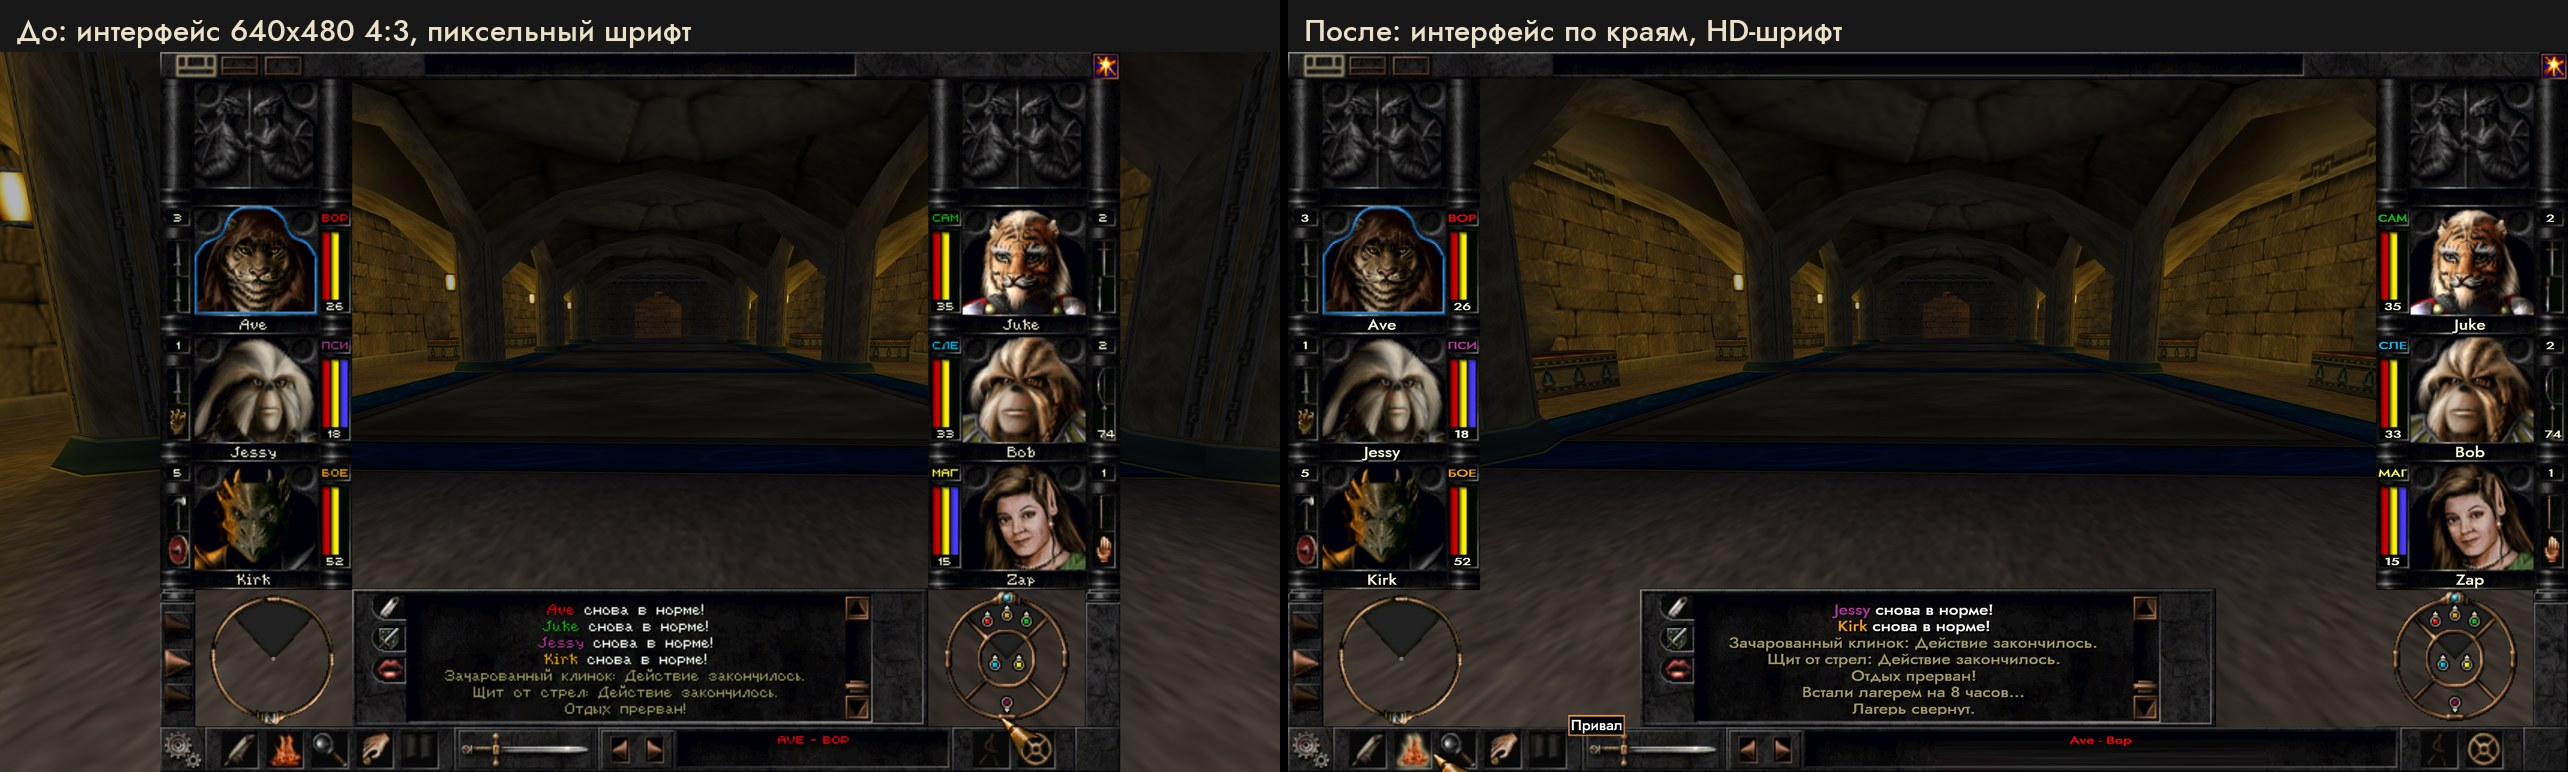
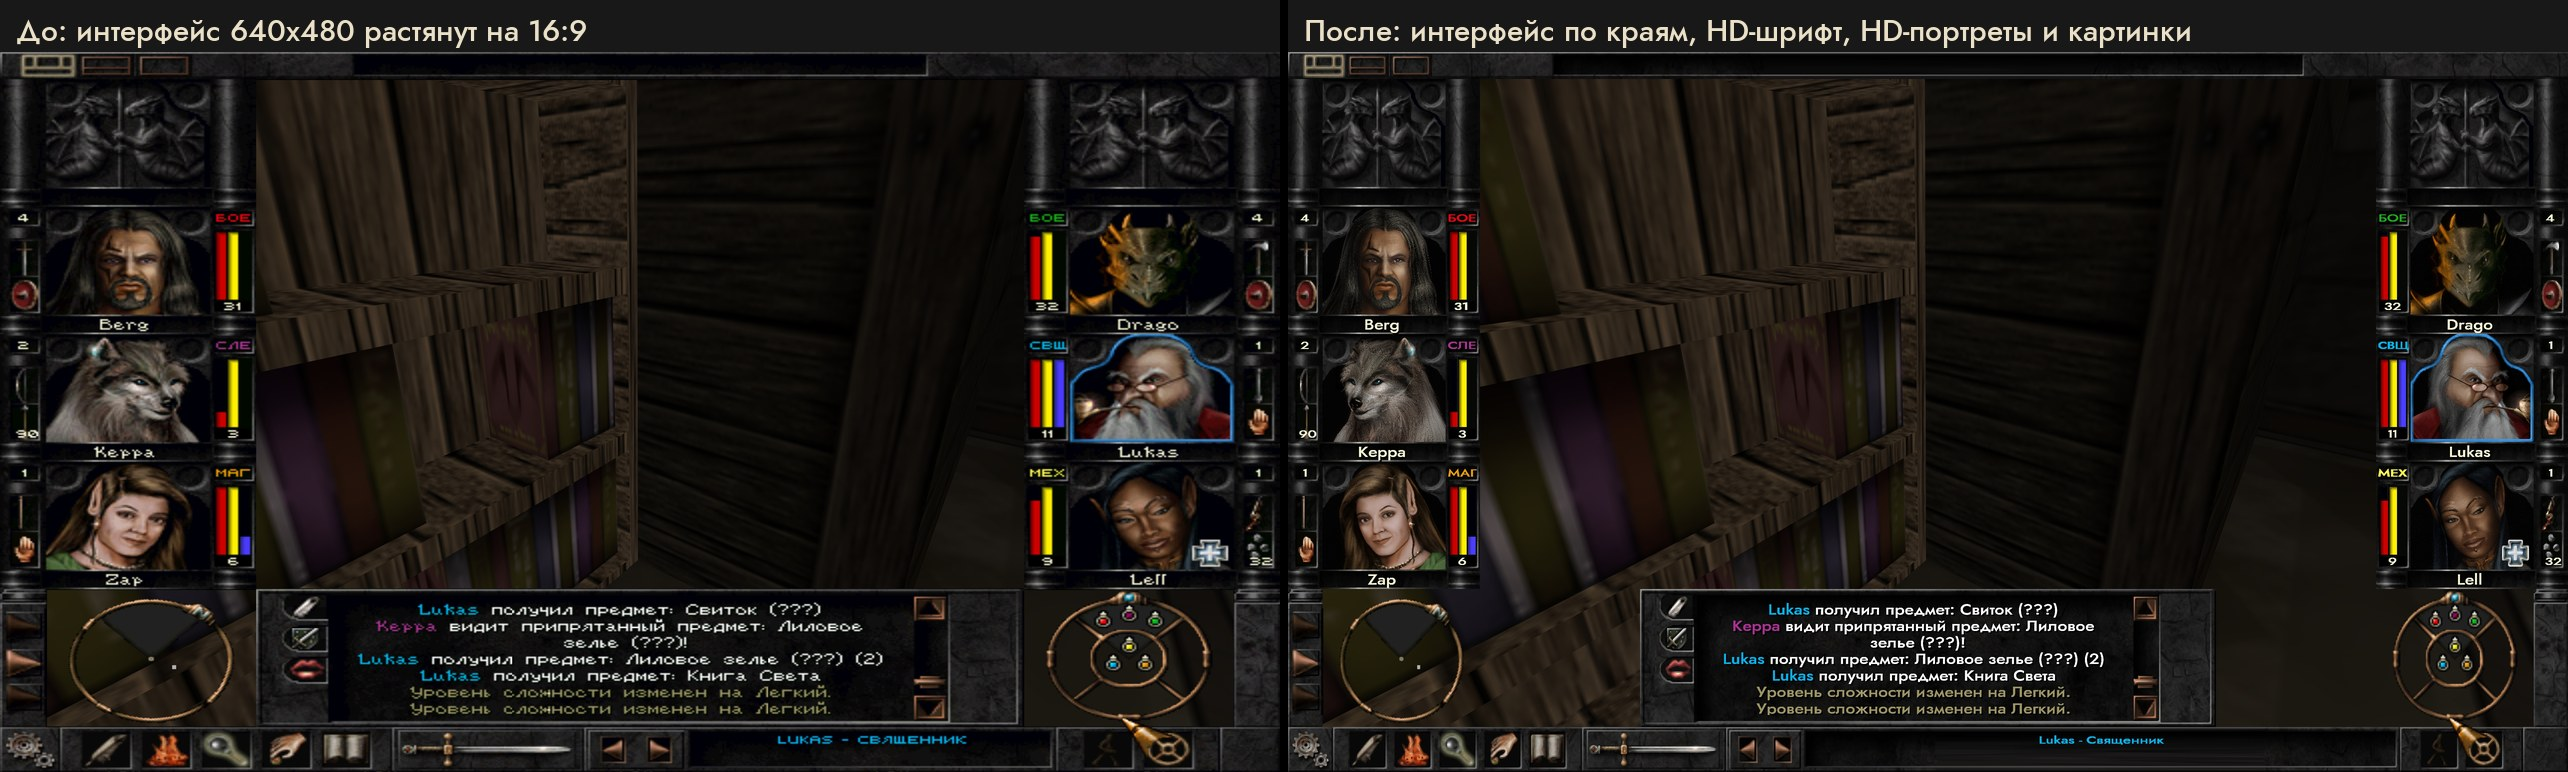
README: more before/after examples, HD interface pictures
- docs/: inventory, skills, spell panel, automap, camp and combat pairs
  (the game at 4K without the mod against the same scene with it) and
  close-ups of items and portraits at 4K pixels 1:1, Russian and English;
  the game pair now shows HD portraits and interface pictures.
- make_compare.py builds them; labels shrink to fit narrow close-ups.
- README.md / README.en.md: the examples, the interface row in the tables,
  -NoInterface, disk space (~450 MB), where the interface pictures come from.

diff --git a/tools/make_compare.py b/tools/make_compare.py
@@ -17,7 +17,11 @@ def labelled(img, text, size):
     img = img.resize(size, Image.LANCZOS)
     out = Image.new("RGB", (size[0], size[1] + BAR), (24, 24, 24))
     out.paste(img, (0, BAR))
-    ImageDraw.Draw(out).text((16, 8), text, font=FONT, fill=(235, 225, 200))
+    font, pt = FONT, 30
+    while pt > 16 and font.getlength(text) > size[0] - 32:     # a narrow close-up: a smaller label
+        pt -= 2
+        font = ImageFont.truetype(FONT.path, pt)
+    ImageDraw.Draw(out).text((16, 8 + (30 - pt) // 2), text, font=font, fill=(235, 225, 200))
     return out
 
 
@@ -35,20 +39,73 @@ def pair(before, after, name, size, vertical=False):
     print(name, out.size)
 
 
+def ui_box(mode, x0, y0, x1, y1):
+    """A rectangle of the 640x480 interface on a 3840x2160 shot: 'stretch' = the game without the mod (the
+    interface stretched over 16:9), 'center' = a full-screen 4:3 screen with the mod, 'left' = the HUD's left
+    column with the mod (moved to the screen edge)."""
+    k = 4.5
+    if mode == "stretch":
+        return (round(x0 * 6), round(y0 * k), round(x1 * 6), round(y1 * k))
+    dx = 480 if mode == "center" else 0
+    return (round(dx + x0 * k), round(y0 * k), round(dx + x1 * k), round(y1 * k))
+
+
+def crop_pair(before, after, rect, before_mode, after_mode, name, labels, height):
+    """The same interface rectangle without and with the mod, side by side at the same height (4K pixels for
+    the mod's side, the stretched picture squeezed back to 4:3 for the other)."""
+    b = shot(before).crop(ui_box(before_mode, *rect))
+    a = shot(after).crop(ui_box(after_mode, *rect))
+    w = round(a.width * height / a.height)
+    pair((b, labels[0]), (a, labels[1]), name, (w, height))
+
+
 LABELS = {
     "": ("До: меню 640x480, растянуто на 16:9", "После: широкий HD-фон 3840x2160",
-         "До: интерфейс 640x480 4:3, пиксельный шрифт", "После: интерфейс по краям, HD-шрифт",
+         "До: интерфейс 640x480 растянут на 16:9", "После: интерфейс по краям, HD-шрифт, HD-портреты и картинки",
          "До: шрифт игры 640x480, увеличенный до 4K", "После: TrueType-шрифт Jost в родном 4K"),
     "_en": ("Before: 640x480 menu stretched to 16:9", "After: wide HD background, 3840x2160",
-            "Before: 640x480 4:3 interface, pixel font", "After: interface at the edges, HD font",
+            "Before: 640x480 interface stretched to 16:9", "After: HUD at the edges, HD font, portraits, pictures",
             "Before: the game's 640x480 font scaled to 4K", "After: Jost TrueType font at native 4K"),
 }
+# more screens: ex_off_* = the game without the mod, ex_on_* = with it (wizardry8-hdui tools/shoot_examples.sh)
+SCREENS = {
+    "": {
+        "inventory": ("До: инвентарь растянут на 16:9", "После: 4:3 по центру, камень по бокам, всё в HD"),
+        "skills": ("До: лист персонажа, пиксельный шрифт", "После: навыки, HD-шрифт и HD-рамки"),
+        "spells": ("До: панель заклинаний", "После: панель заклинаний в HD, HUD по краям"),
+        "map": ("До: карта растянута", "После: карта 4:3, HD-кнопки"),
+        "rest": ("До: привал", "После: HD-фон привала, спящие HD-портреты"),
+        "battle": ("До: бой с крабами", "После: тот же бой"),
+        "items": ("До: предметы 640x480, увеличены до 4K", "После: предметы в HD (xBR), пиксели 4K 1:1"),
+        "portraits": ("До: колонка портретов", "После: HD-портреты, рамки и полоски"),
+    },
+    "_en": {
+        "inventory": ("Before: inventory stretched to 16:9", "After: 4:3 in the middle, stone beside, all HD"),
+        "skills": ("Before: character sheet, pixel font", "After: skills with HD font and frames"),
+        "spells": ("Before: spell panel", "After: HD spell panel, HUD at the edges"),
+        "map": ("Before: automap stretched", "After: 4:3 automap, HD buttons"),
+        "rest": ("Before: camp", "After: HD camp picture, sleeping HD portraits"),
+        "battle": ("Before: a fight with crabs", "After: the same fight"),
+        "items": ("Before: items, 640x480 scaled to 4K", "After: HD items (xBR), 4K pixels 1:1"),
+        "portraits": ("Before: the portrait column", "After: HD portraits, frames and bars"),
+    },
+}
+SHOT = {"inventory": "inv", "skills": "skills", "spells": "spells", "map": "map", "rest": "rest", "battle": "battle"}
 box = (1300, 1560, 2600, 2160)
 for sfx, t in LABELS.items():
     # menu: without the mod the game's own 640x480 frame is stretched over the 16:9 screen
     pair((shot("menu2d_2d.png"), t[0]), (shot("fin_menu.jpg"), t[1]), f"compare_menu{sfx}.jpg", (1280, 720))
     # world: same place, same party
-    pair((shot("hud.png"), t[2]), (shot("fin_after.jpg"), t[3]), f"compare_game{sfx}.jpg", (1280, 720))
+    pair((shot("ex_off_hud.jpg"), t[2]), (shot("ex_on_hud.jpg"), t[3]), f"compare_game{sfx}.jpg", (1280, 720))
     # text close-up at native 4K pixels
     pair((shot("hud.png").crop(box), t[4]), (shot("fin_after.jpg").crop(box), t[5]), f"compare_text{sfx}.jpg",
          (1300, 600), vertical=True)
+    s = SCREENS[sfx]
+    for key, name in SHOT.items():
+        pair((shot(f"ex_off_{name}.jpg"), s[key][0]), (shot(f"ex_on_{name}.jpg"), s[key][1]),
+             f"compare_{key}{sfx}.jpg", (960, 540))
+    # close-ups: the party's items in the inventory, the left portrait column in the HUD
+    crop_pair("ex_off_inv.jpg", "ex_on_inv.jpg", (478, 168, 614, 320), "stretch", "center", f"compare_items{sfx}.jpg",
+              s["items"], 640)
+    crop_pair("ex_off_hud.jpg", "ex_on_hud.jpg", (0, 100, 128, 358), "stretch", "left", f"compare_portraits{sfx}.jpg",
+              s["portraits"], 900)

diff --git a/README.en.md b/README.en.md
@@ -13,6 +13,28 @@ text, an undistorted interface and wide HD backgrounds. One script installs ever
 
 ![Text close-up, 4K pixels 1:1](docs/compare_text_en.jpg)
 
+### More examples
+
+Left: the game at 4K without the mod; right: with the mod. Same place, same party.
+
+![Inventory: before and after](docs/compare_inventory_en.jpg)
+
+![Character sheet, skills: before and after](docs/compare_skills_en.jpg)
+
+![Spell panel: before and after](docs/compare_spells_en.jpg)
+
+![Automap: before and after](docs/compare_map_en.jpg)
+
+![Camp: before and after](docs/compare_rest_en.jpg)
+
+![Combat: before and after](docs/compare_battle_en.jpg)
+
+Close-ups, 4K pixels 1:1:
+
+![Inventory items close-up](docs/compare_items_en.jpg)
+
+![Portrait column close-up](docs/compare_portraits_en.jpg)
+
 | | Steam version as is | After installing |
 |---|---|---|
 | Resolution | 800x600, 16-bit (Glide through nGlide) | your monitor's native resolution, 32-bit (DirectX through dgVoodoo2) |
@@ -22,6 +44,7 @@ text, an undistorted interface and wide HD backgrounds. One script installs ever
 | Text | 640x480 pixel font, blurry | TrueType font at native resolution, tooltips included |
 | Menu, loading and camp backgrounds | 640x480, stretched | wide 16:9 HD backgrounds |
 | Character portraits | 640x480, blurry | HD in all three sizes, with blinking and talking |
+| Frames, buttons, icons, items, spells, automap | 640x480, blurry | HD pictures (classic xBR pixel-art scaler, no AI) |
 | Inventory, party, character creation | black bars at the sides | the game's own stone at the sides |
 | Location texts (diaries, signs) in the Russian version | in English | in Russian (Fan Patch texts) |
 | 3dfx logo at startup | yes | no |
@@ -36,7 +59,7 @@ screenshots were taken with the Russian game language; the mod works with any la
 - Wizardry 8 from Steam.
 - **Fan Patch 1.28**, an unofficial community patch. Steam does not include it; download it separately (step 2).
 - **dgVoodoo2**. Steam does not include it either; the installer downloads it for you (step 4).
-- An internet connection during installation and about 80 MB of disk space.
+- An internet connection during installation and about 450 MB of disk space.
 
 ## Installation
 
@@ -90,7 +113,8 @@ From PowerShell: `powershell -ExecutionPolicy Bypass -File .\install.ps1 [option
 | `-DetectOnly` | only find the game and check versions and resolution |
 | `-WhatIf` | show what would be done without changing anything |
 | `-NoBackgrounds` | no HD backgrounds (−71 MB) |
-| `-NoPortraits` | no HD portraits (−119 MB) |
+| `-NoPortraits` | no HD portraits (−116 MB) |
+| `-NoInterface` | no HD interface pictures: frames, buttons, icons, items (−258 MB) |
 | `-NoRusTexts` | keep the location texts in English in a Russian game |
 | `-NoHdUi` | only the resolution and borderless screen, no HD interface |
 | `-ResetConfig` | replace an existing `wiz8hd.ini` / `dgVoodoo.conf` with the defaults |
@@ -110,6 +134,7 @@ with `-ResetConfig`.
 | Wide HD backgrounds | `wiz8hd_bg\` (42 pictures 3840x2160 + 640x480 references for recognizing the screen) |
 | Stone beside full-screen screens | `wiz8hd_bg\_sides.png` |
 | HD portraits (982 frames: small, medium, large, blinking and talking) | `wiz8hd_ui\sti\PORTRAITS\` |
+| HD interface pictures (4765 frames: frames, buttons, icons, items, spells, automap, character creation) | the other folders of `wiz8hd_ui\sti\` |
 | Russian location texts (only with `Data\RUS.SLF`): diaries, signs, bookshelves | `Data\Messages\*.MSG`, built from the Fan Patch's Russian texts in `Data\FanPatch.Dat` |
 | No 3dfx logo | registry `HKCU\Software\Zeus Software\nGlide2`, `Splash=0` |
 | Shortcut | "Wizardry 8 (Fan Patch 4K)" on the desktop → `Wiz8_v128.exe` |
@@ -163,7 +188,8 @@ To remove the mod by hand, delete these files (or run `uninstall.cmd`); the game
   menu, world, byte-for-byte uninstall.
 - `tools\Update-Payload.ps1` refreshes `payload\` after rebuilding the mod (`wizardry8-hdui`: `./build.sh`,
   `build\wiz8hd.asi` → `dist\`). Pictures and fonts are stored in Git LFS.
-- `tools\make_compare.py <wizardry8-hdui>\shots` builds the before/after pictures in `docs\` (Russian and English).
+- `tools\make_compare.py <wizardry8-hdui>\shots` builds the before/after pictures in `docs\` (Russian and English);
+  the `ex_off_*` / `ex_on_*` shots come from `tools/shoot_examples.sh off|on` in `wizardry8-hdui`.
 
 ## Licenses and origin
 
@@ -176,6 +202,10 @@ To remove the mod by hand, delete these files (or run `uninstall.cmd`); the game
   for owners of the game and will be removed at the rights holder's first request. Without them: `-NoBackgrounds`.
 - HD portraits: the game's own portraits, upscaled (4xNomos8kDAT, then SUPIR) without painting in new details; shared
   on the same terms. Without them: `-NoPortraits`.
+- HD interface pictures: the game's own pictures, upscaled with the classic pixel-art scaler xBR (an ffmpeg filter,
+  no neural networks); the dark edge they were anti-aliased with against black is partly turned into
+  transparency. Shared on the same terms. Without them: `-NoInterface`. The Russian captions on the options menu
+  buttons stay original.
 - `wiz8hd.asi` — the built mod; its source is in a separate repository, `wizardry8-hdui` (not published yet).
 - Wizardry 8 was developed by Sir-Tech Canada; Wizardry is a trademark of its rights holder. This project is not
   affiliated with the rights holder, Steam or the Fan Patch authors.
